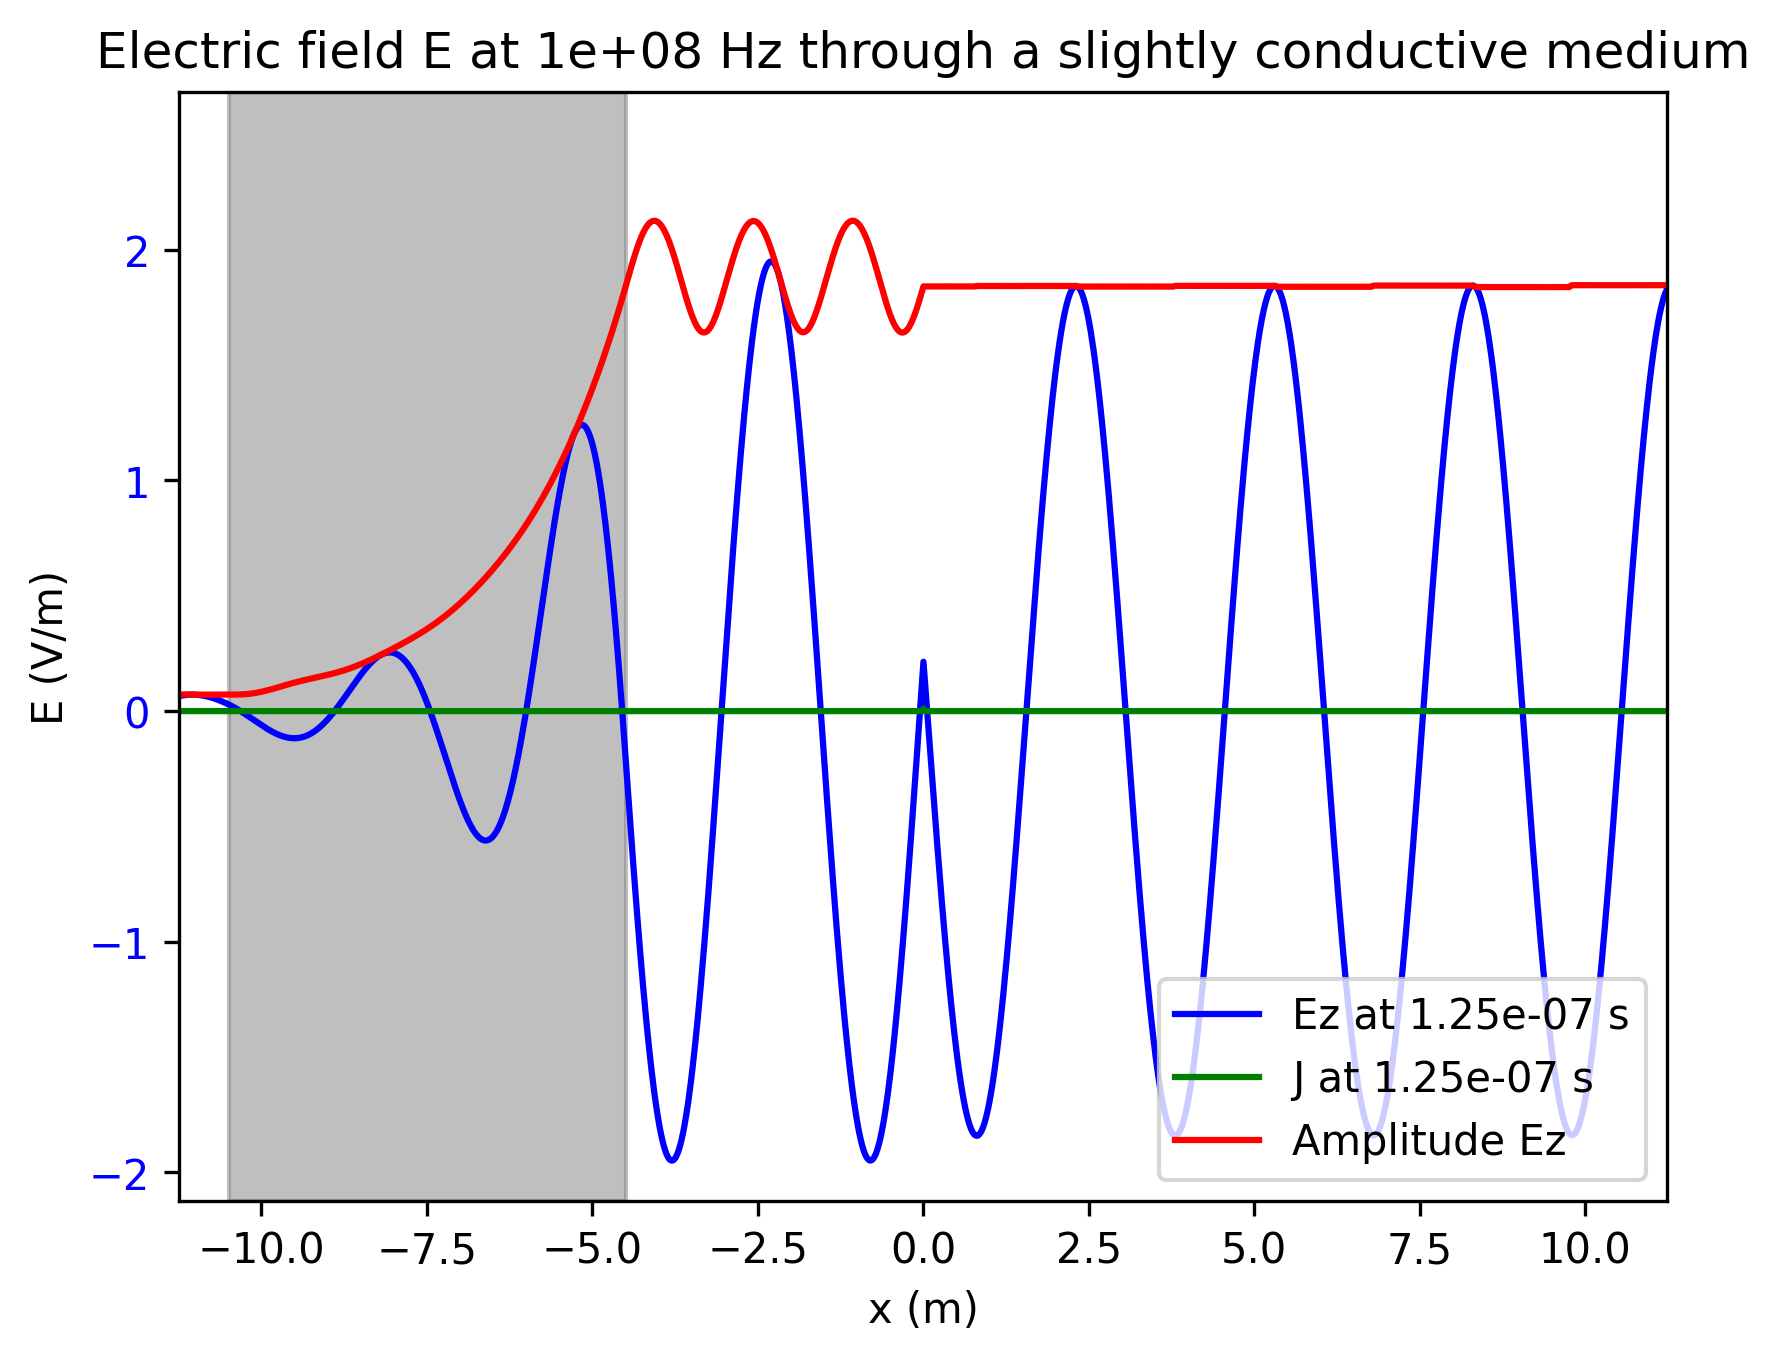
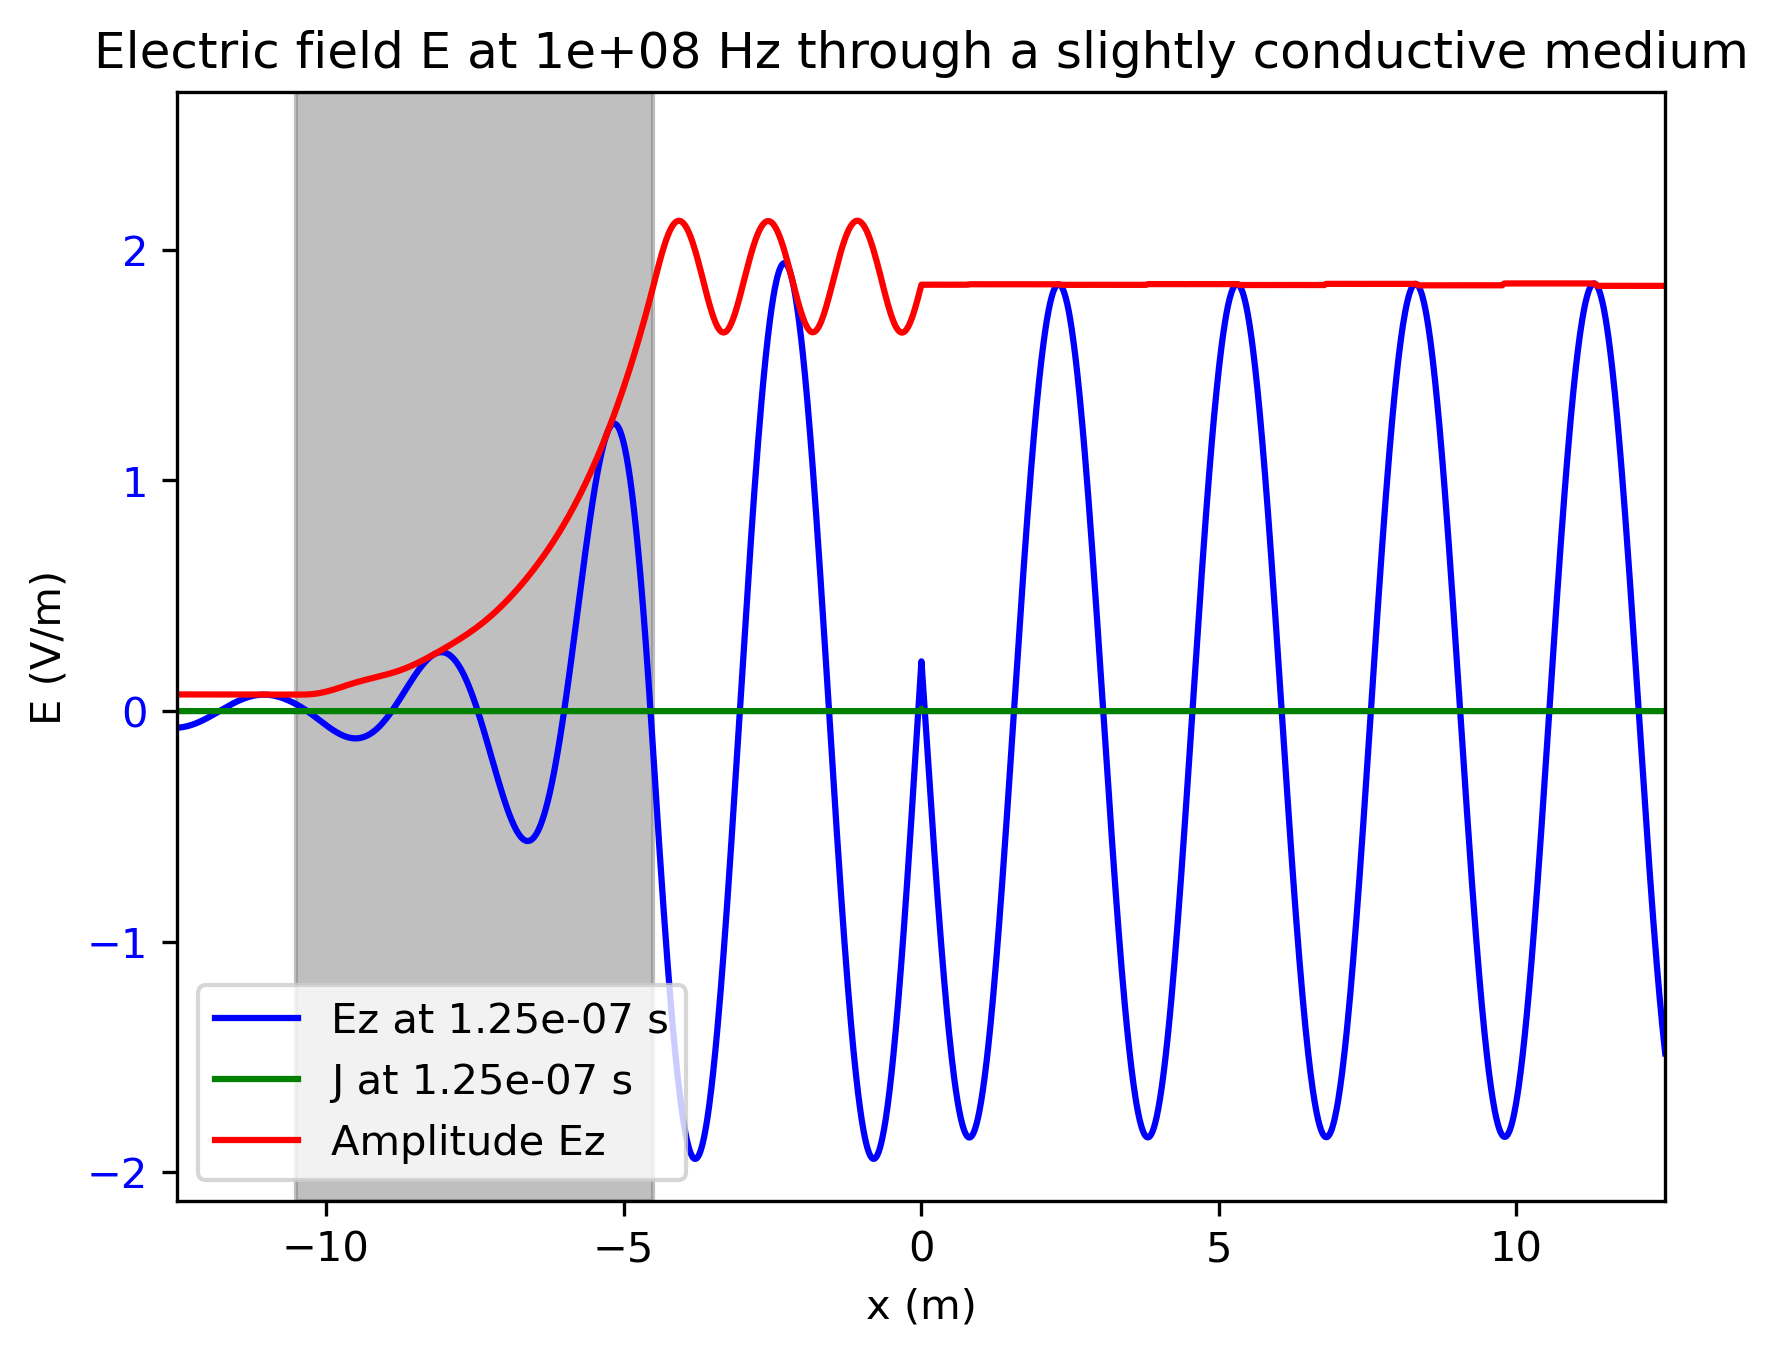
WIP on conductivity validation

diff --git a/1D/1D_main_conductivity_validation.py b/1D/1D_main_conductivity_validation.py
@@ -1,0 +1,222 @@
+# FDTD - Finite-Difference Time-Domain
+# 1D simulation using Yee's algorithm
+# to simulate electromagnetic waves.
+
+
+from matplotlib.axes import Axes
+import numpy as np
+import matplotlib.pyplot as plt
+import matplotlib.animation as animation
+
+
+# parameters
+# settings parameters
+TOTAL_X = 25  # in meters
+FREQ_REF = 1e8  # Hz
+Q = 10000  # number of time samples
+COND_START = 2  # in meters
+COND_END = 15   # in meters
+CONDUCTIVITY = 0.003  # in S/m
+SOURCE_POS = 20  # in meters
+
+
+# Constants
+e0 = 8.8541878188e-12  # F/m
+u0 = 1.25663706127e-6  # H/m
+c_vide = 1 / np.sqrt(e0 * u0)  # m/s
+
+
+
+
+
+# derived parameters
+DELTA_X = c_vide / (FREQ_REF * 600)  # in meters
+DELTA_T = 1 / (2 * FREQ_REF * 600)  # in seconds
+# REMARK : when DELTA_T is too small(comparend to DELTA_x), the limit conditions seam to stop working correctly (a 10x difference causes problems)
+# the current limit condition assumes that C * DELTA_T/ DELTA_X = 2 (? I found a source that says 1 but I'm not sure : https://opencourses.emu.edu.tr/pluginfile.php/2641/mod_resource/content/1/ABC.pdf)
+M = round(TOTAL_X / DELTA_X)  # number of space samples
+
+# set the local relative permittivity array
+epsilon_r = np.ones((M))
+# epsilon_r[int(3 * M / 4) - 25 : int(3 * M / 4) + 25] = 4
+# slowest speed in the medium
+c_slowest = 1 / np.sqrt(np.max(epsilon_r) * e0 * u0)
+
+
+# set the local conductivity array
+sigma = np.zeros((M))
+
+start_cond = round(COND_START / DELTA_X)
+end_cond = round(COND_END / DELTA_X)
+sigma[start_cond:end_cond] = CONDUCTIVITY
+
+TOTAL_T = (Q - 1) * DELTA_T  # in seconds
+print("TOTAL_X : ", TOTAL_X, "TOTAL_T : ", TOTAL_T)
+print("DELTA_X : ", DELTA_X, "DELTA_T : ", DELTA_T)
+
+# check the stability condition
+print("feedback current max multiplier : ", (DELTA_T / e0) * np.max(sigma))
+assert (DELTA_T / e0) * np.max(sigma) < 1, "stability condition not met"
+
+
+# %%
+# initialise the starting values
+E0 = np.zeros((M))
+B_tilde_0 = np.zeros((M))
+# intiialise the current density
+J_source = np.zeros((Q, M))
+
+# initialise with a gaussian pulse
+# E0[int(M / 2) - 100 : int(M / 2) + 100] = np.exp(
+#     -(np.linspace(-100, 100, 200) ** 2) /100
+# ) / np.sqrt(2 * np.pi)
+
+# set a sinusoidal current at the middle of the grid
+fraction_on = 1
+J_source[0 : int(Q * fraction_on), round(SOURCE_POS/DELTA_X)] = (
+    0.01
+    / DELTA_X  # insures that the total current is constant
+    * np.sin(
+        2
+        * np.pi
+        * FREQ_REF
+        * np.linspace(0, TOTAL_T * fraction_on, int(Q * fraction_on))
+    )
+)
+
+
+# initialise the arrays
+E = np.zeros((Q, M))
+E[0, :] = E0[:]
+B_tilde = np.zeros((Q, M))
+B_tilde[0, :] = B_tilde_0[:]
+
+
+# %%
+# We consider B_tilde to be half a time step in front of E in the time domain,
+# this means that we computing step n for E we use step n-1 for B
+# we also consider B_tilde's grid half a step ahead of E's grid in the space domain
+# this means that x=0 for E <-> x=0.5 for B_tilde
+def forward_E(E: np.ndarray, B_tilde: np.ndarray, J_source: np.ndarray, q: int):
+    """
+    modifies E in place at step q
+    q : int : has to be between 1 and Q-1
+    """
+    E[q, 1:M] = (
+        E[q - 1, 1:M]
+        + (1 / (epsilon_r[1:M] * e0 * u0))
+        * (DELTA_T / (c_vide * DELTA_X))
+        * (B_tilde[q - 1, 1:M] - B_tilde[q - 1, 0 : M - 1])
+        - (DELTA_T / (epsilon_r[1:M] * e0))
+        * (J_source[q - 1, 1:M] + sigma[1:M] * E[q - 1, 1:M])
+    )
+
+    # limit conditions :
+    E[q, 0] = E[q - 2, 1]
+    E[q, M - 1] = E[q - 2, M - 2]
+
+
+def forward_B_tilde(E: np.ndarray, B_tilde: np.ndarray, q: int):
+    """
+    modifies B_tilde in place at step q
+    q : int : the time step : has to be between 1 and Q-1
+    """
+    B_tilde[q, 0 : M - 1] = B_tilde[q - 1, 0 : M - 1] + (
+        (c_vide * DELTA_T) / DELTA_X
+    ) * (E[q, 1:M] - E[q, 0 : M - 1])
+
+
+def main():
+    for q in range(1, Q):
+        forward_E(E, B_tilde, J_source, q)
+        forward_B_tilde(E, B_tilde, q)
+
+
+# %%
+main()
+
+
+# %%
+# animate the results : https://stackoverflow.com/questions/67672601/how-to-use-matplotlibs-animate-function
+fig, (ax1) = plt.subplots()
+ax1 : Axes = ax1
+
+
+x = np.linspace(0, TOTAL_X, M) - TOTAL_X/2
+ax1.set_xlim(np.min(x), np.max(x))
+ax1.set_xlabel("x (m)")
+ax1.set_ylabel("E (V/m)")
+ax1.set_title(f"Electric field E at {FREQ_REF:.0e} Hz through a slightly conductive medium")
+ax1.tick_params(axis="y", labelcolor="b")
+# (lineE,) = plt.plot(x, E[0], label="0 s", color="b")
+# (lineJ,) = plt.plot(x, J_source[0], label="0 s", color="g")
+plt.ylim(
+    -0.1 * (np.max(E, axis=None) - np.min(E, axis=None)),
+    np.max(E, axis=None) + 0.1 * (np.max(E, axis=None) - np.min(E, axis=None)),
+)
+
+ax1.axvspan(
+    start_cond * DELTA_X - TOTAL_X / 2,
+    end_cond * DELTA_X - TOTAL_X / 2,
+    color="gray",
+    alpha=0.5,
+)
+
+frame_devider = 1
+
+
+# def updatefig(i: int):
+#     lineE.set_ydata(E[i * frame_devider])
+#     lineE.set_label(f"Ez at {i * frame_devider * DELTA_T:.2e} s")
+#     lineJ.set_ydata(J_source[i * frame_devider])
+#     lineJ.set_label(f"J at {i * frame_devider * DELTA_T:.2e} s")
+#     plt.legend()
+#     return (lineE, lineJ)
+
+
+# ani = animation.FuncAnimation(
+#     fig, updatefig, frames=int(Q / frame_devider), repeat=True, interval=1
+# )
+
+# updatefig(Q-1)
+
+steps_per_half_period = int(
+    1 / (2*FREQ_REF * DELTA_T)
+)
+
+print(
+    "steps_per_half_period : ",
+    steps_per_half_period,
+    "approx : ",
+    1 / (2*FREQ_REF * DELTA_T),
+)
+
+amplitude = np.max(np.abs(E[-steps_per_half_period:,:]), axis = 0)
+ax1.plot(x, amplitude, label="Amplitude Ez", color="red")
+
+# visualisation de la décroissance exponentielle théorique
+omega = 2 * np.pi * FREQ_REF
+alpha = omega * np.sqrt(e0 * u0 / 2) * np.sqrt(np.sqrt(1 + (np.max(sigma) / (omega * e0)**2)) - 1)
+print(f"alpha : {alpha:.2e} m^-1")
+print(f"skin depth : {1/alpha:.2e} m")
+
+A0 = amplitude[end_cond]
+# ax1.axhline(
+#     A0
+# )
+
+x_in_dielectric = x[start_cond:end_cond]
+theoretical_decay = A0* np.exp(-alpha*(-(x_in_dielectric - x_in_dielectric[-1])))
+ax1.plot(
+    x_in_dielectric,
+    theoretical_decay,
+    label="Theoretical decay",
+    color="orange",
+)
+ax1.legend(loc="lower right")
+
+# ani.save("1D_sine_source_local_conductivity.mp4", fps=60)
+
+plt.savefig("images/1D_sine_source_local_conductivity.png", dpi=300, bbox_inches="tight")
+
+plt.show()
